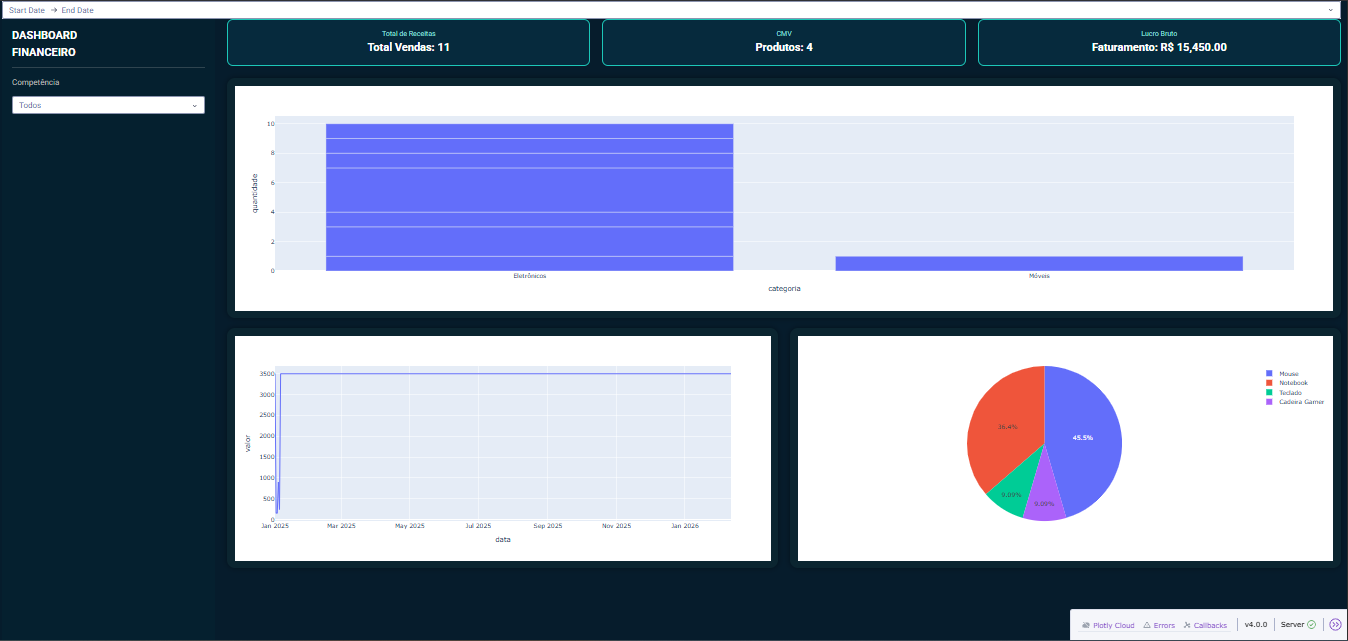
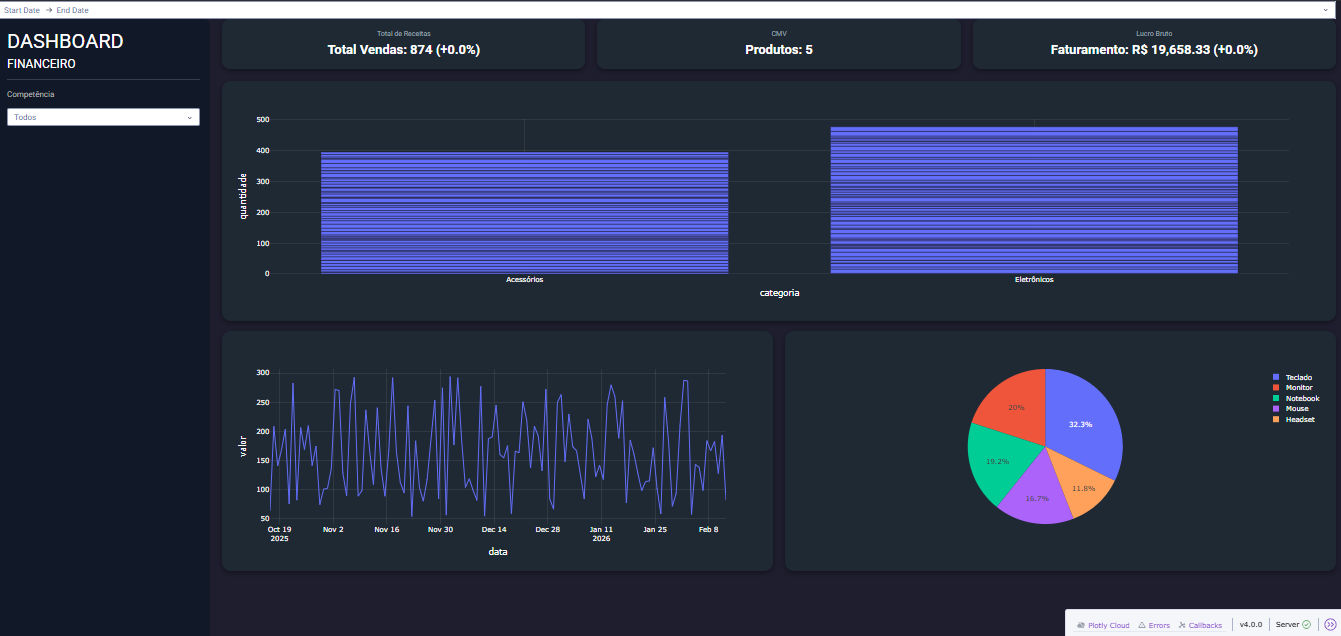
Update Images

diff --git a/callbacks/dashboard_callbacks.py b/callbacks/dashboard_callbacks.py
@@ -52,6 +52,29 @@ def update(produto, start, end, n):
 
     for fig in (fig_bar, fig_line, fig_pie):
         fig.update_layout(
+            template="plotly_dark",
+
+            font=dict(
+                color="white",
+                size=14
+            ),
+
+            xaxis=dict(
+                title_font=dict(color="white"),
+                tickfont=dict(color="white"),
+                gridcolor="rgba(255,255,255,0.15)"
+            ),
+
+            yaxis=dict(
+                title_font=dict(color="white"),
+                tickfont=dict(color="white"),
+                gridcolor="rgba(255,255,255,0.15)"
+            ),
+
+            legend=dict(
+                font=dict(color="white")
+            ),
+
             paper_bgcolor="rgba(0,0,0,0)",
             plot_bgcolor="rgba(0,0,0,0)"
         )
